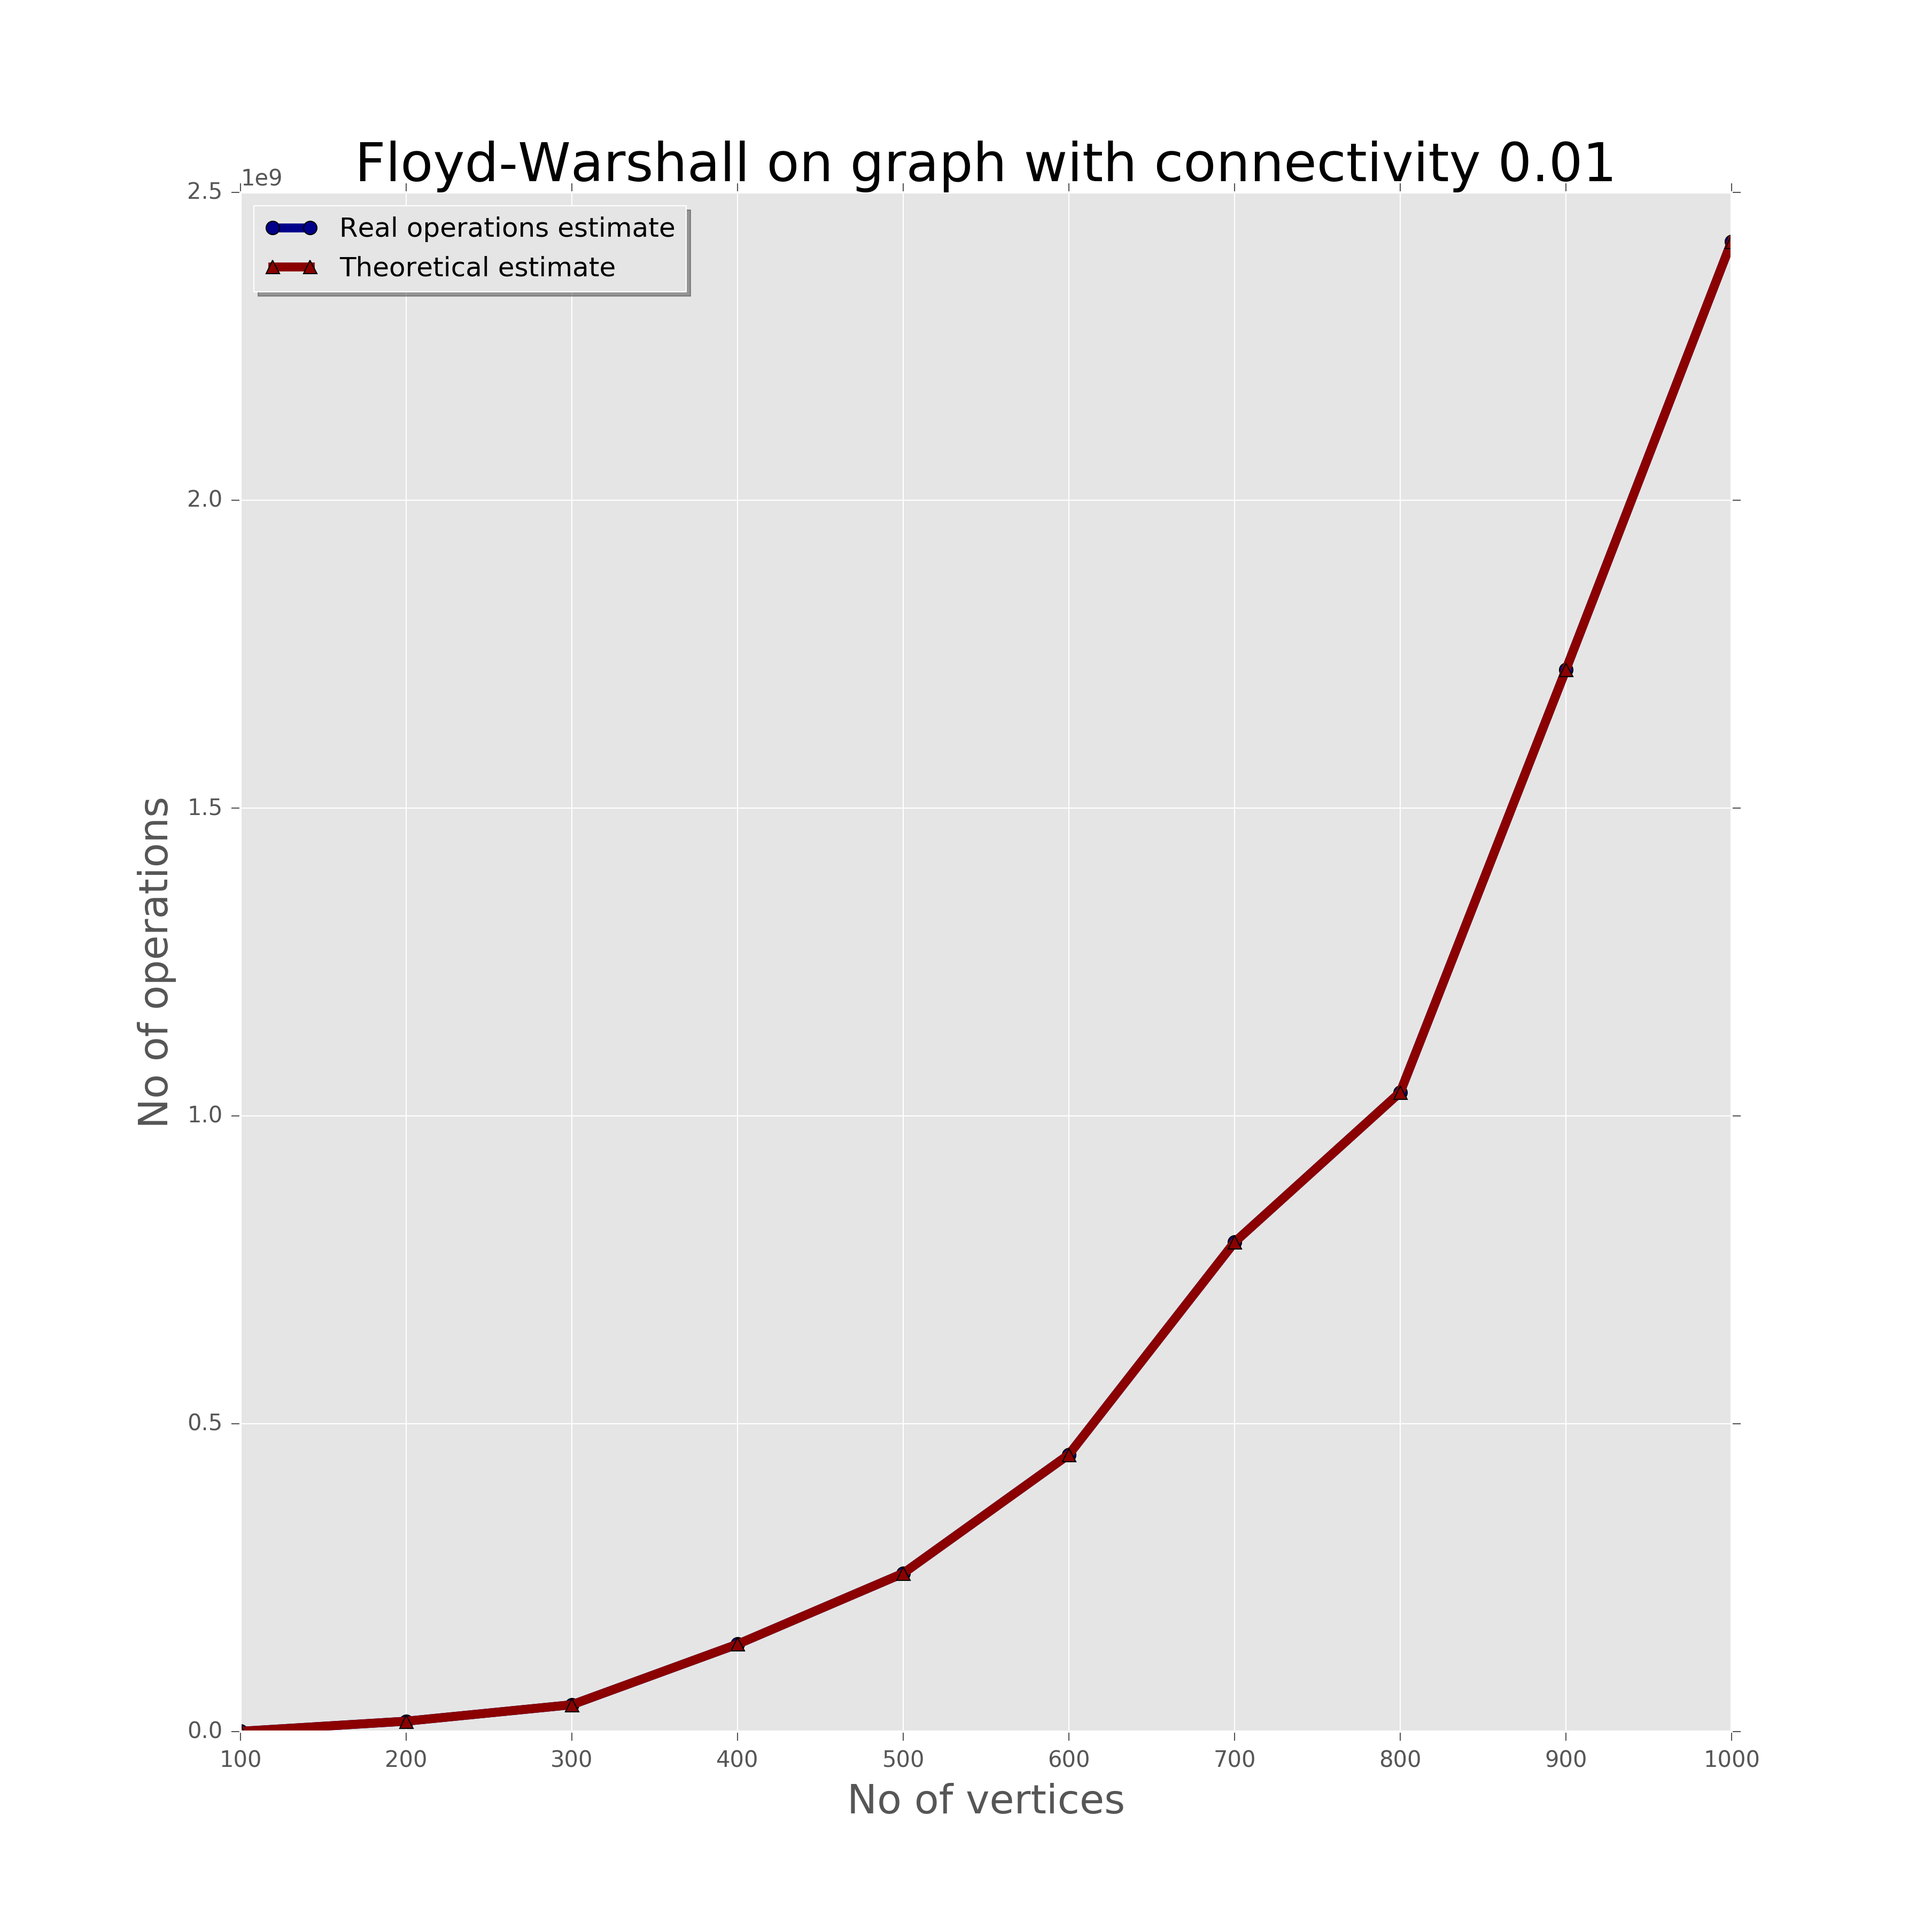
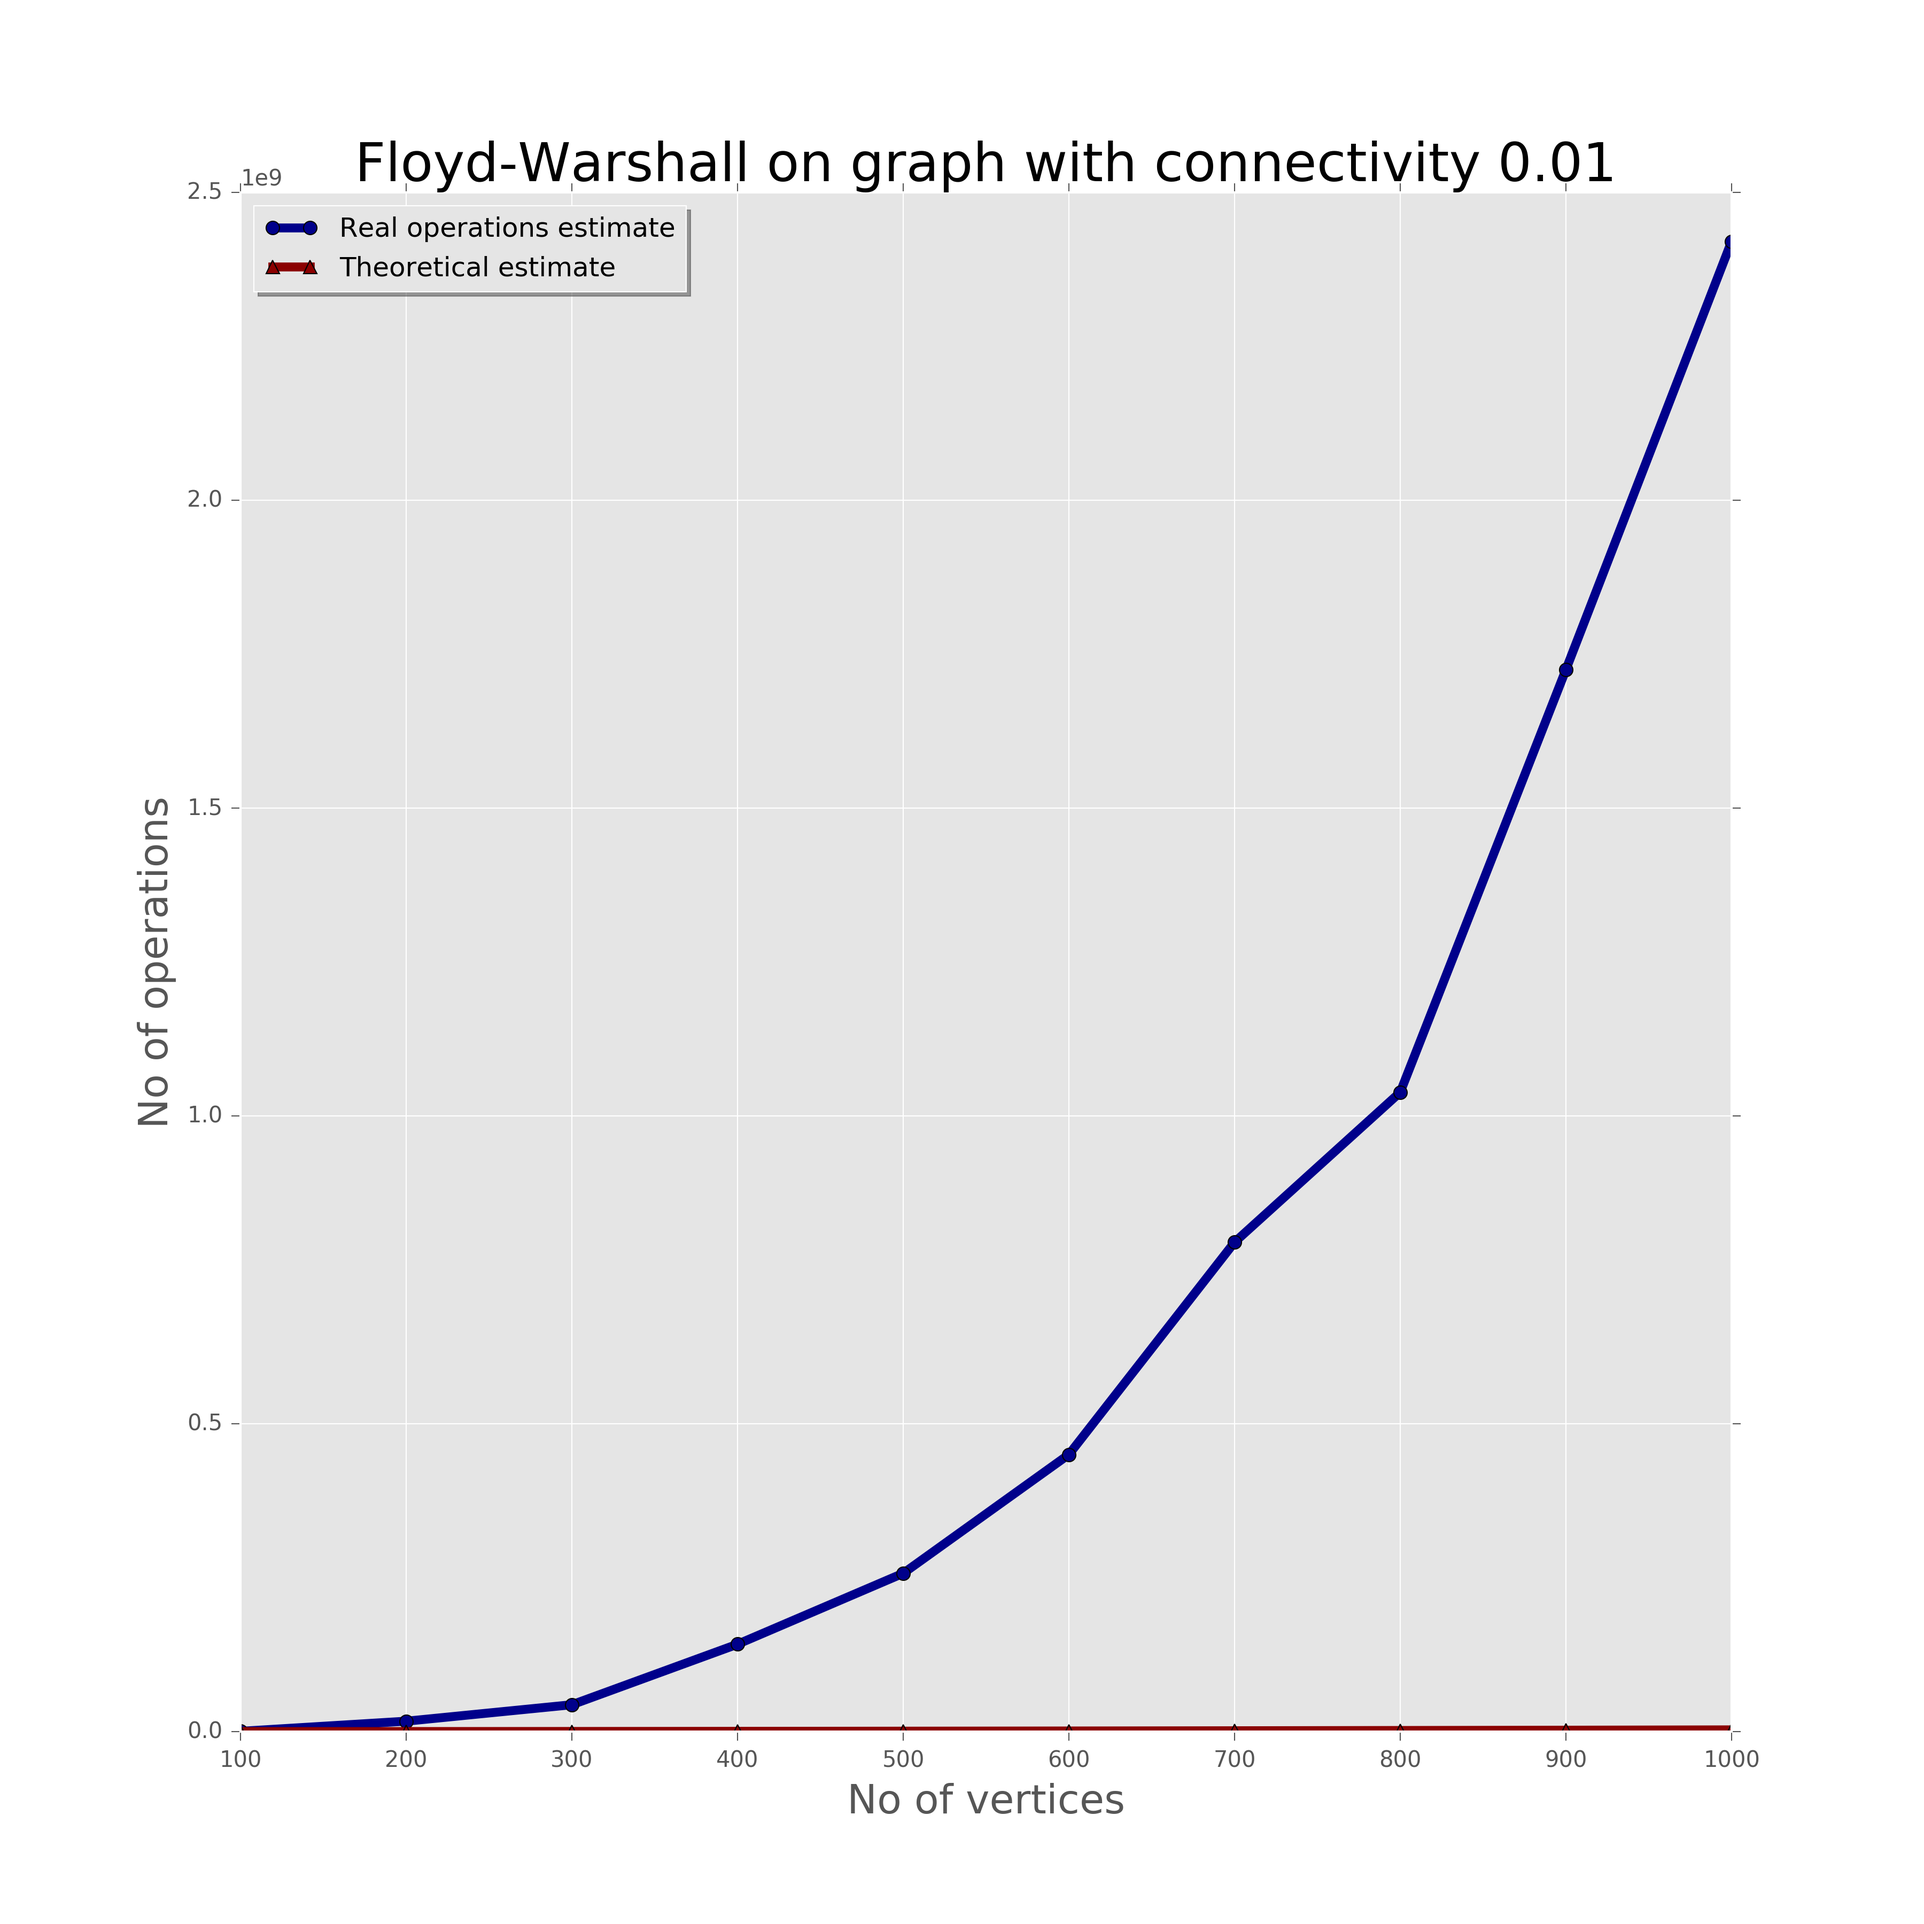
visual fix

diff --git a/graphs/negative-cycle/visualization.py b/graphs/negative-cycle/visualization.py
@@ -24,7 +24,7 @@ for connectivity in c:
     f, ax = plt.subplots()
     ax.set_title('Floyd-Warshall on graph with connectivity %.2f'%connectivity, fontsize=24)
     ax.plot(fw_r[0], fw_r[2], color="darkblue", label='Real operations estimate', marker="o", linewidth=4.)
-    ax.plot(fw_r[0], fw_r[2], color="darkred", label='Theoretical estimate', marker="^", linewidth=4.)
+    ax.plot(fw_r[0], fw_r[3], color="darkred", label='Theoretical estimate', marker="^", linewidth=4.)
     ax.set_ylabel('No of operations', fontsize=18)
     ax.set_xlabel('No of vertices', fontsize=18)
     ax.legend(loc='upper left', shadow=True)
